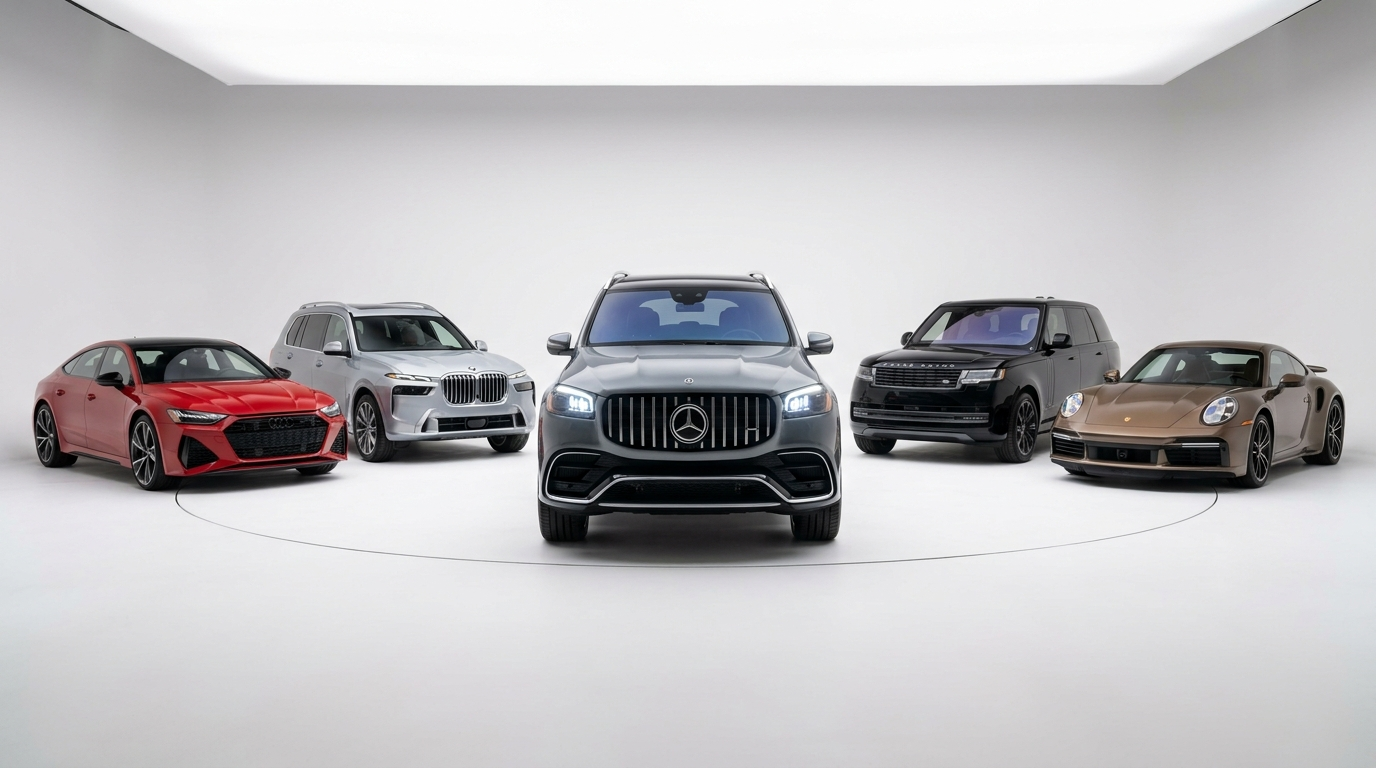
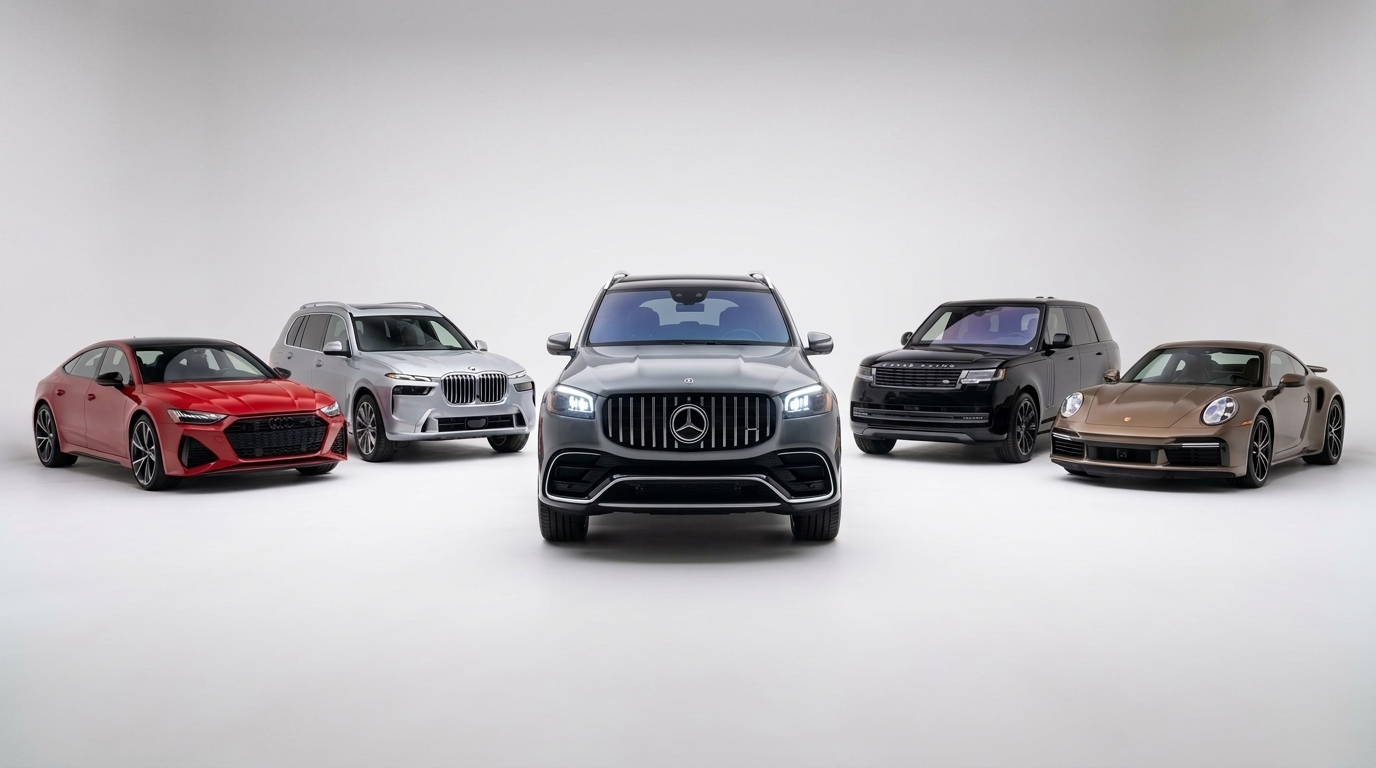
feat: create core application structure, UI components, styling, and assets for West Car website

Changed region(s): [[0.0, 0.0, 1.0, 0.1875]]

diff --git a/src/index.css b/src/index.css
@@ -271,38 +271,28 @@ a {
 }
 
 /* ==========================================================================
-   HERO SECTION (Identical Architecture to Reference Master)
+   HERO SECTION (Layout Fiel à Referência: Fundo Claro + Carros Integrados)
    ========================================================================== */
 
 .hero-section {
   position: relative;
-  background: linear-gradient(180deg, #FFFFFF 0%, #F5F7FA 70%, #E9ECEF 100%);
+  background: linear-gradient(180deg, #FFFFFF 0%, #F7F8FA 60%, #ECEEF2 100%);
   padding-top: 3.5rem;
-  padding-bottom: 7rem;
+  padding-bottom: 0;
   overflow: hidden;
 }
 
-.hero-badge-tag {
-  display: inline-flex;
-  align-items: center;
-  gap: 0.5rem;
-  padding: 0.35rem 1rem;
-  border-radius: 9999px;
-  background: rgba(229, 36, 45, 0.08);
-  border: 1px solid rgba(229, 36, 45, 0.2);
-  color: var(--wc-red-primary);
-  font-size: 0.8rem;
-  font-weight: 800;
-  letter-spacing: 0.8px;
-  text-transform: uppercase;
-  margin-bottom: 1.25rem;
+.hero-content-wrapper {
+  text-align: center;
+  position: relative;
+  z-index: 2;
 }
 
 .hero-title {
   font-family: var(--font-display);
-  font-size: clamp(2.2rem, 5vw, 4rem);
-  font-weight: 800;
-  line-height: 1.1;
+  font-size: clamp(2.4rem, 5.5vw, 4.2rem);
+  font-weight: 900;
+  line-height: 1.08;
   letter-spacing: -0.02em;
   color: var(--wc-obsidian-900);
   text-transform: uppercase;
@@ -312,19 +302,22 @@ a {
   text-align: center;
 }
 
-.hero-title .highlight-red {
+/* Segunda linha do título em itálico com cor vermelha da marca (fiel à referência) */
+.hero-title .highlight-red-italic {
+  font-style: italic;
   background: linear-gradient(135deg, #FF3542 0%, #E5242D 60%, #A30D14 100%);
   -webkit-background-clip: text;
   -webkit-text-fill-color: transparent;
+  background-clip: text;
   display: inline-block;
   position: relative;
 }
 
 .hero-subtitle {
-  font-size: clamp(1rem, 1.8vw, 1.2rem);
+  font-size: clamp(0.95rem, 1.6vw, 1.15rem);
   color: var(--wc-text-secondary);
-  max-width: 680px;
-  margin: 1.25rem auto 2.25rem;
+  max-width: 640px;
+  margin: 1rem auto 2rem;
   text-align: center;
   font-weight: 400;
   line-height: 1.6;
@@ -335,7 +328,7 @@ a {
   align-items: center;
   justify-content: center;
   gap: 1.25rem;
-  margin-bottom: 3rem;
+  margin-bottom: 2.5rem;
   flex-wrap: wrap;
 }
 
@@ -403,22 +396,27 @@ a {
 }
 
 /* ==========================================================================
-   HERO CAR LINEUP (Panorama de Estúdio Fiel à Referência Master)
+   HERO CAR LINEUP (Integrado ao Fundo - Sem Moldura, como na Referência)
    ========================================================================== */
+
+.hero-cars-container {
+  position: relative;
+  width: 100%;
+  max-width: 1400px;
+  margin: 0 auto;
+}
 
 .hero-panorama-wrapper {
   position: relative;
   width: 100%;
-  max-width: 1180px;
-  margin: 1rem auto 0;
   overflow: visible;
 }
 
 .hero-panorama-stage {
   position: relative;
   width: 100%;
-  aspect-ratio: 16 / 9;
-  max-height: 520px;
+  aspect-ratio: 16 / 7;
+  max-height: 560px;
   background: transparent;
 }
 
@@ -426,19 +424,20 @@ a {
   width: 100%;
   height: 100%;
   object-fit: cover;
+  object-position: center bottom;
   display: block;
   user-select: none;
-  border-radius: 20px;
-  box-shadow: 0 16px 45px -12px rgba(11, 17, 22, 0.12);
+  /* SEM border-radius, SEM box-shadow — carros integrados ao fundo como na referência */
 }
 
+/* Degradê inferior para blend suave com a próxima seção */
 .hero-panorama-blend {
   position: absolute;
   bottom: 0;
   left: 0;
   right: 0;
-  height: 60px;
-  background: linear-gradient(180deg, transparent 0%, rgba(255, 255, 255, 0.85) 70%, #FFFFFF 100%);
+  height: 80px;
+  background: linear-gradient(180deg, transparent 0%, #ECEEF2 80%, var(--wc-canvas-light) 100%);
   pointer-events: none;
 }
 

diff --git a/src/App.jsx b/src/App.jsx
@@ -6,7 +6,6 @@ import {
   MessageCircle,
   ShieldCheck,
   Award,
-  Sparkles,
   ArrowRight,
   Play,
   Car,
@@ -204,28 +203,22 @@ export function App() {
       </header>
 
       {/* ===================================================================
-          2. HERO SECTION (Exata Estrutura da Referência Master)
+          2. HERO SECTION (Layout Fiel à Referência: Título + Carros Integrados)
           =================================================================== */}
       <section className="hero-section">
-        <div className="container" style={{ textAlign: 'center', position: 'relative', zIndex: 2 }}>
-          {/* Tag de Marca */}
-          <div className="hero-badge-tag">
-            <Sparkles size={14} />
-            <span>Estoque Selecionado · Procedência Comprovada</span>
-          </div>
-
-          {/* Título Principal com Tipografia Estendida Automotiva (Unbounded) */}
+        <div className="container hero-content-wrapper">
+          {/* Título Principal - Grande e Impactante */}
           <h1 className="hero-title">
-            SEU PRÓXIMO CARRO<br />
-            <span className="highlight-red">COM PROCEDÊNCIA &amp; EXCLUSIVIDADE</span>
+            VEÍCULOS SELECIONADOS<br />
+            <span className="highlight-red-italic">COM PROCEDÊNCIA & EXCLUSIVIDADE</span>
           </h1>
 
-          {/* Subtítulo conciso e persuasivo */}
+          {/* Subtítulo conciso */}
           <p className="hero-subtitle">
-            Mais de uma década realizando sonhos sobre quatro rodas. Estoque periciado com laudo cautelar 100% aprovado, garantia total e as melhores condições de financiamento.
+            Mais de uma década realizando sonhos sobre quatro rodas. Estoque periciado com laudo cautelar 100% aprovado, garantia e as melhores condições.
           </p>
 
-          {/* Botões de Ação da Hero (Idênticos à Referência Master) */}
+          {/* Botões de Ação */}
           <div className="hero-cta-group">
             <button className="btn-primary-pill" onClick={scrollToCatalog}>
               <span>Explorar Estoque</span>
@@ -239,8 +232,10 @@ export function App() {
               <span>Tour Virtual da Loja</span>
             </button>
           </div>
+        </div>
 
-          {/* Lineup Panorâmico de 5 Veículos Real de Estúdio */}
+        {/* Lineup Panorâmico de Carros - Integrado ao Fundo (Sem Moldura) */}
+        <div className="hero-cars-container">
           <HeroLineup onSelectVehicle={handleSelectVehicleById} />
         </div>
       </section>

diff --git a/src/components/HeroLineup.jsx b/src/components/HeroLineup.jsx
@@ -2,25 +2,22 @@ import React from 'react';
 
 /**
  * Lineup Panorâmico de 5 Veículos da Hero Section
- * Fiel à Composição Exata da Referência Master:
- * - Visão panorâmica contínua de 5 veículos sobre piso de estúdio branco puro com sombras de contato
- * - Centro: SUV imponente em destaque frontal com faróis iluminados
- * - Laterais: SUVs e cupês esportivos escalonados com profundidade real
- * - Interatividade: Hotspots e pins de visualização rápida
+ * Layout fiel à referência: carros integrados ao fundo branco,
+ * sem moldura, como cutouts em showroom, sangrados até a borda inferior.
  */
 export function HeroLineup({ onSelectVehicle }) {
   const hotSpots = [
-    { id: 'porsche-911-carrera-2022', name: 'Porsche 911 Carrera', left: '88%', top: '56%' },
-    { id: 'toyota-hilux-srx-2024', name: 'Range Rover / SUV', left: '71%', top: '48%' },
-    { id: 'porsche-macan-2023', name: 'GLS Flagship Edition', left: '50%', top: '42%' },
-    { id: 'bmw-x5-msport-2023', name: 'BMW X7 Luxury', left: '29%', top: '48%' },
-    { id: 'audi-a4-black-2023', name: 'Audi Sportback Red', left: '12%', top: '56%' }
+    { id: 'audi-a4-black-2023', name: 'Audi Sportback', left: '12%', top: '52%' },
+    { id: 'bmw-x5-msport-2023', name: 'BMW X5 M Sport', left: '29%', top: '44%' },
+    { id: 'porsche-macan-2023', name: 'SUV Flagship', left: '50%', top: '38%' },
+    { id: 'toyota-hilux-srx-2024', name: 'Range Rover', left: '71%', top: '44%' },
+    { id: 'porsche-911-carrera-2022', name: 'Porsche 911', left: '88%', top: '52%' }
   ];
 
   return (
     <div className="hero-panorama-wrapper">
       <div className="hero-panorama-stage">
-        {/* Imagem Panorâmica Real de Estúdio dos 5 Carros */}
+        {/* Imagem Panorâmica dos Carros - Integrada ao Fundo */}
         <img
           src="/images/hero-lineup.jpg"
           alt="Lineup exclusivo West Car Multimarcas"
@@ -45,7 +42,7 @@ export function HeroLineup({ onSelectVehicle }) {
         ))}
       </div>
 
-      {/* Degradê inferior suave integrando com o fundo */}
+      {/* Degradê inferior suave para integrar com a seção abaixo */}
       <div className="hero-panorama-blend" />
     </div>
   );
